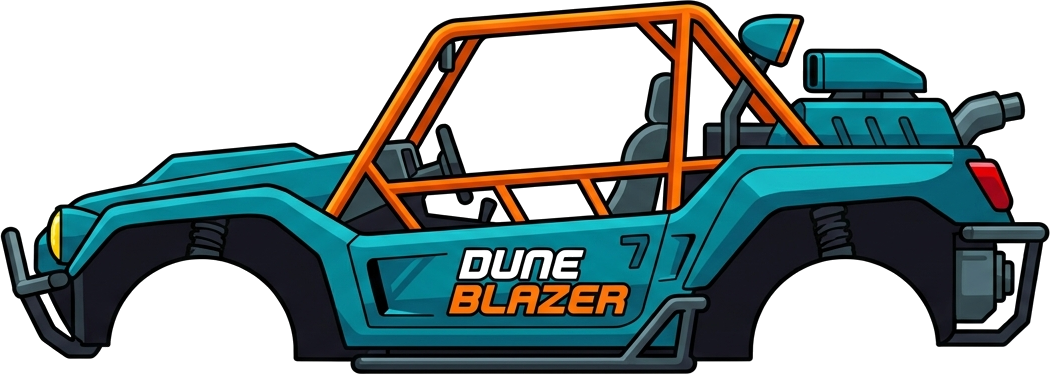
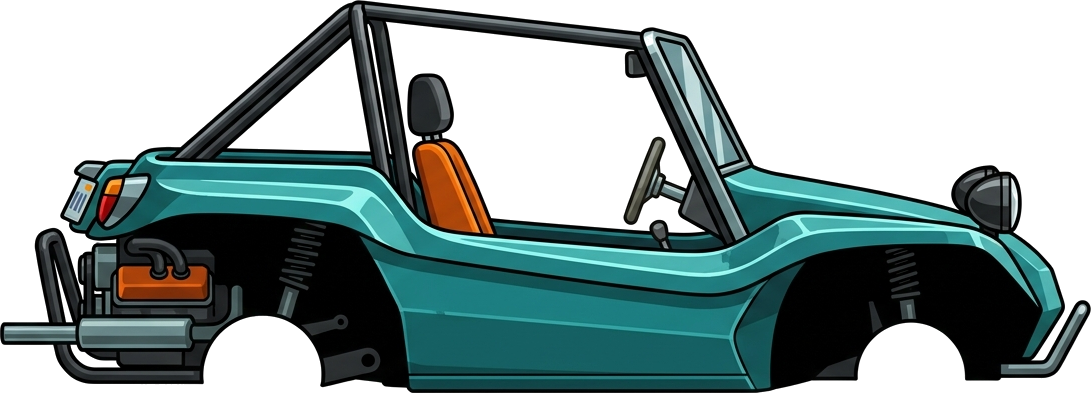
fix(summit): generate new right-facing sprites to fix backward text and fix tyre alignment

diff --git a/apps/web/src/features/games/summit-rush/render/vehicle-sprite.ts b/apps/web/src/features/games/summit-rush/render/vehicle-sprite.ts
@@ -206,25 +206,25 @@ function getVehicleImage(modelId: string): HTMLImageElement | null {
 }
 
 const SPRITE_CONFIGS: Record<string, { width: number; xOffset: number; yOffset: number }> = {
-  buggy: { width: 5.5, xOffset: -2.75, yOffset: 0.15 },
-  climber: { width: 5.8, xOffset: -2.9, yOffset: 0.3 },
-  speedster: { width: 5.6, xOffset: -2.8, yOffset: 0.1 },
+  buggy: { width: 3.4, xOffset: -1.7, yOffset: 0.15 },
+  climber: { width: 3.6, xOffset: -1.8, yOffset: 0.3 },
+  speedster: { width: 3.6, xOffset: -1.8, yOffset: 0.2 },
 };
 
 function drawBody(ctx: CanvasRenderingContext2D, livery: Livery, modelId: string): void {
   const img = getVehicleImage(modelId);
   if (img && img.complete && img.naturalWidth > 0) {
-    const config = SPRITE_CONFIGS[modelId] || { width: 5.5, xOffset: -2.75, yOffset: 0.2 };
+    const config = SPRITE_CONFIGS[modelId] || { width: 3.4, xOffset: -1.7, yOffset: 0.2 };
     const width = config.width;
     const height = width * (img.naturalHeight / img.naturalWidth);
     
     // The physics canvas has Y pointing UP. drawImage expects +Y to point DOWN.
-    // The generated images face LEFT, so we scale X by -1 to make them face RIGHT.
+    // The new images face RIGHT natively.
     ctx.save();
-    ctx.scale(-1, -1);
+    ctx.scale(1, -1);
     
     // config.yOffset is the physics Y coordinate where we want the center of the image.
-    // In scale(-1,-1) space, physics Y=0.2 becomes Y=-0.2.
+    // In scale(1,-1) space, physics Y=0.2 becomes Y=-0.2.
     const centerY = -config.yOffset;
     const drawY = centerY - height / 2;
     
